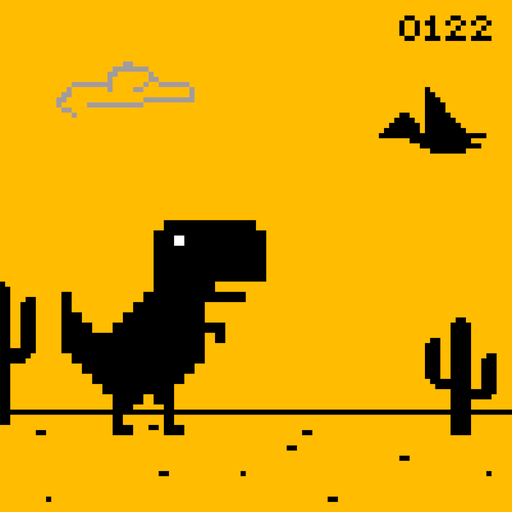
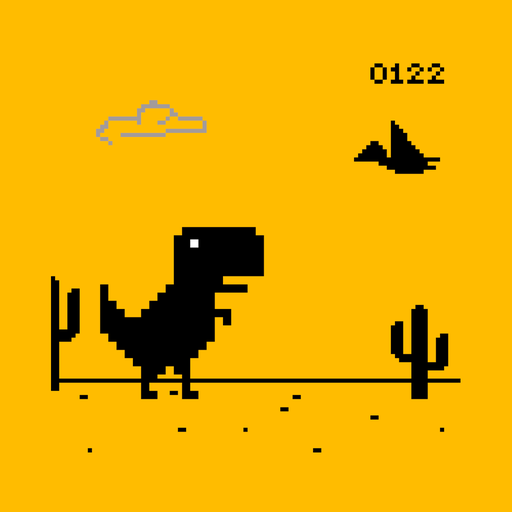
Adapt game for PewPlay template

diff --git a/index.html b/index.html
@@ -1,12 +1,10 @@
 <!DOCTYPE html>
-<html lang="en" >
+<html lang="en">
 <head>
-    <meta http-equiv="X-UA-Compatible" content="IE=edge">
-    <meta name="viewport" content="width=device-width, initial-scale=1.0">
-    
-  <meta charset="UTF-8">
-  <title>Dino</title>
-<script src="https://apis.google.com/js/platform.js" async defer></script>
+  <meta charset="utf-8">
+  <meta http-equiv="X-UA-Compatible" content="IE=edge">
+  <meta name="viewport" content="width=device-width, initial-scale=1">
+  <title>T-Rex Dino</title>
 
 	<!--script type="text/javascript" src="a.js"></script-->
 	<script type="text/javascript">
@@ -465,6 +463,13 @@
     case events.MOUSEUP:
     this.onKeyUp(e);
     break;
+    case 'pointerdown':
+    this.onPointerDown(e);
+    break;
+    case 'pointerup':
+    case 'pointercancel':
+    this.onPointerUp(e);
+    break;
     }
     }.bind(this))(e.type, Runner.events);
     },
@@ -475,16 +480,10 @@
     // Keys.
     document.addEventListener(Runner.events.KEYDOWN, this);
     document.addEventListener(Runner.events.KEYUP, this);
-    if (IS_MOBILE) {
-    // Mobile only touch devices.
-    this.touchController.addEventListener(Runner.events.TOUCHSTART, this);
-    this.touchController.addEventListener(Runner.events.TOUCHEND, this);
-    this.containerEl.addEventListener(Runner.events.TOUCHSTART, this);
-    } else {
-    // Mouse.
-    document.addEventListener(Runner.events.MOUSEDOWN, this);
-    document.addEventListener(Runner.events.MOUSEUP, this);
-    }
+    // Mouse, touch and pen: click / tap anywhere to jump.
+    document.addEventListener('pointerdown', this);
+    document.addEventListener('pointerup', this);
+    document.addEventListener('pointercancel', this);
     },
     /**
     * Remove all listeners.
@@ -492,13 +491,39 @@
     stopListening: function() {
     document.removeEventListener(Runner.events.KEYDOWN, this);
     document.removeEventListener(Runner.events.KEYUP, this);
-    if (IS_MOBILE) {
-    this.touchController.removeEventListener(Runner.events.TOUCHSTART, this);
-    this.touchController.removeEventListener(Runner.events.TOUCHEND, this);
-    this.containerEl.removeEventListener(Runner.events.TOUCHSTART, this);
-    } else {
-    document.removeEventListener(Runner.events.MOUSEDOWN, this);
-    document.removeEventListener(Runner.events.MOUSEUP, this);
+    document.removeEventListener('pointerdown', this);
+    document.removeEventListener('pointerup', this);
+    document.removeEventListener('pointercancel', this);
+    },
+    /**
+    * Pointer (mouse / touch / pen) down: jump.
+    * @param {Event} e
+    */
+    onPointerDown: function(e) {
+    if (e.button > 0 || this.crashed) return;
+    if (!this.activated) {
+    this.loadSounds();
+    this.activated = true;
+    }
+    if (!this.tRex.jumping) {
+    this.playSound(this.soundFx.BUTTON_PRESS);
+    this.tRex.startJump();
+    }
+    },
+    /**
+    * Pointer up: end the jump, or restart after a crash.
+    * @param {Event} e
+    */
+    onPointerUp: function(e) {
+    if (this.crashed) {
+    if (e.type == 'pointerup' &&
+    getTimeStamp() - this.time >= this.config.GAMEOVER_CLEAR_TIME) {
+    this.restart();
+    }
+    } else if (this.isRunning()) {
+    this.tRex.endJump();
+    } else if (this.paused) {
+    this.play();
     }
     },
     /**
@@ -2527,26 +2552,23 @@ html[subframe] body {
   }
 }
 </style>
+  <style>
+  /* PewPlay: centre the game and make taps jump without scrolling or zooming */
+  html, body { height: 100%; }
+  body { margin: 0; overflow: hidden; display: flex; align-items: center;
+    touch-action: none; -webkit-user-select: none; user-select: none;
+    -webkit-tap-highlight-color: transparent; }
+  #main-frame-error.interstitial-wrapper { margin: 0 auto; padding: 0 16px; }
+  </style>
+<style>
+/* Su schermi grandi il gioco (largo 600 px) viene ingrandito */
+@media (min-width:900px) and (min-height:480px){body{zoom:1.4}}
+@media (min-width:1150px) and (min-height:560px){body{zoom:1.8}}
+@media (min-width:1500px) and (min-height:700px){body{zoom:2.3}}
+</style>
 </head>
 
 <body id="t">
-<script>
-  window.fbAsyncInit = function() {
-    FB.init({
-      appId      : '576553495813787',
-      xfbml      : true,
-      version    : 'v2.2'
-    });
-  };
-
-  (function(d, s, id){
-     var js, fjs = d.getElementsByTagName(s)[0];
-     if (d.getElementById(id)) {return;}
-     js = d.createElement(s); js.id = id;
-     js.src = "//connect.facebook.net/en_US/sdk.js";
-     fjs.parentNode.insertBefore(js, fjs);
-   }(document, 'script', 'facebook-jssdk'));
-</script>
 <div id="main-frame-error" class="interstitial-wrapper" jstcache="0">
     <div id="offline-resources" jstcache="0">
     <div id="offline-resources-1x" jstcache="0">
@@ -2593,8 +2615,4 @@ html[subframe] body {
 
 </body>
 
-</html>
-<!-- partial -->
-  
-</body>
 </html>
